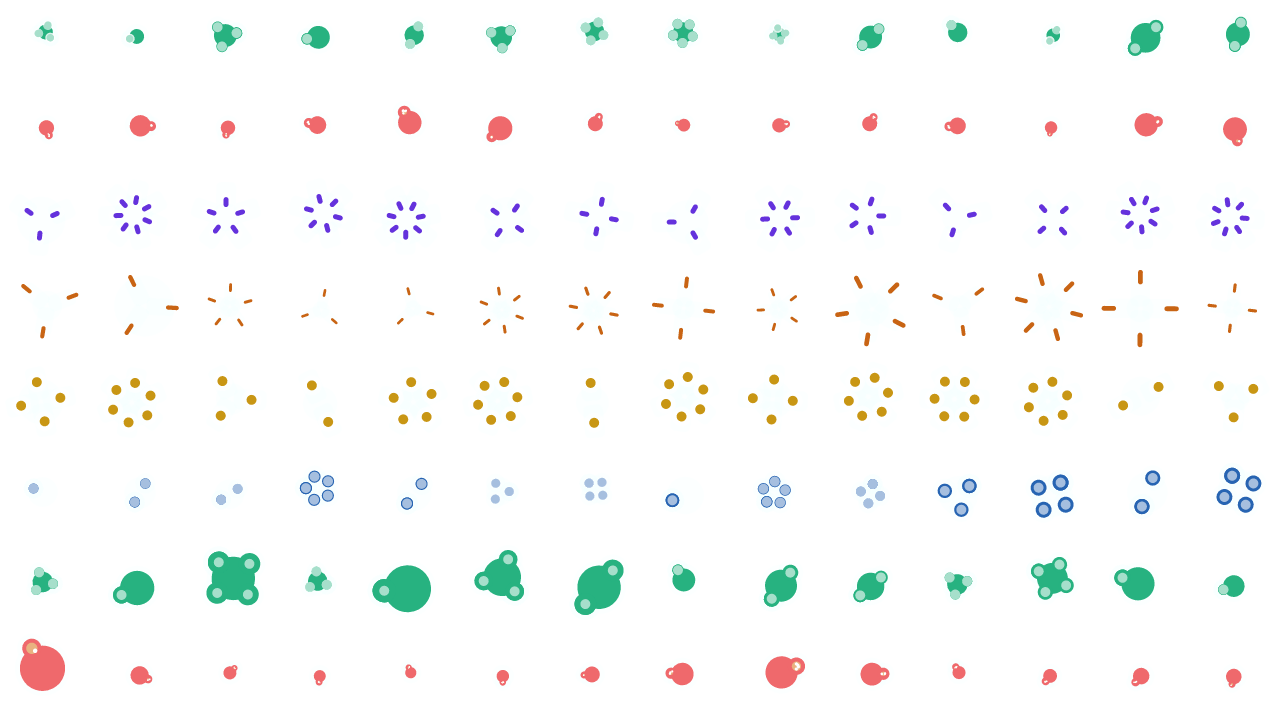
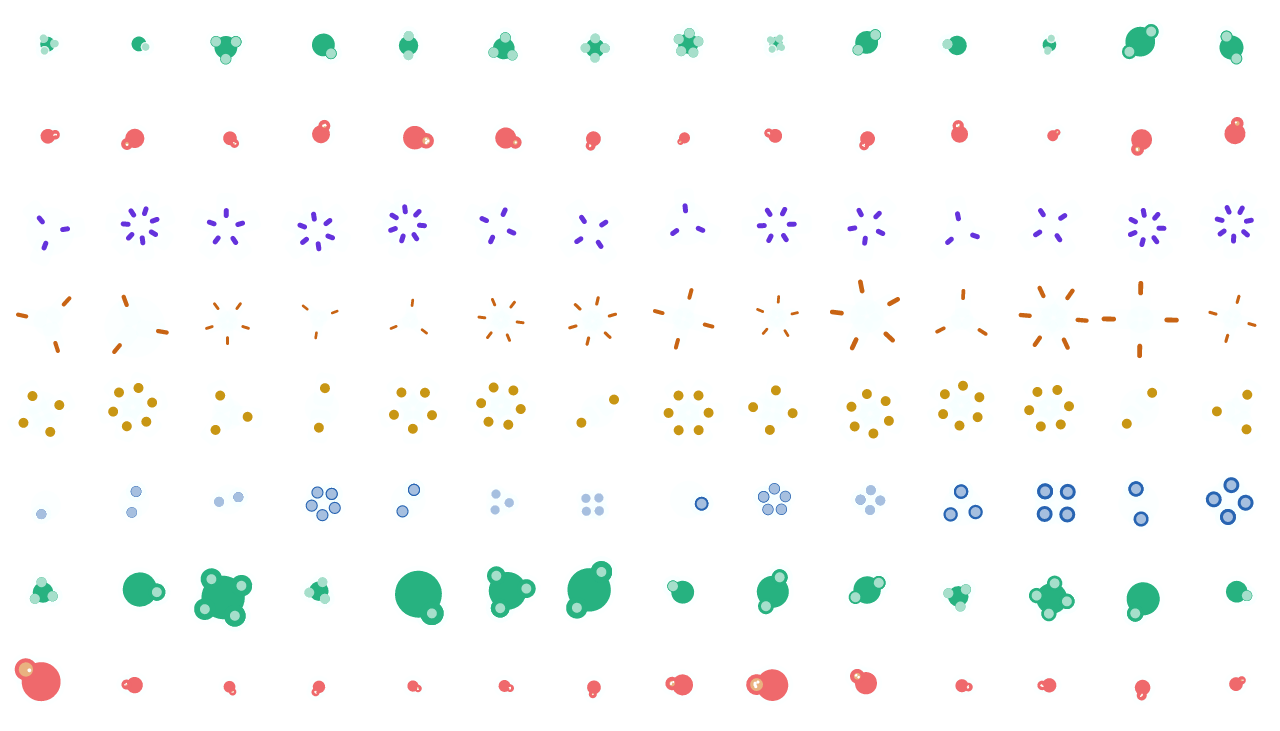
Many small agents

diff --git a/src/ucc/sys/pointSpriteUpdaterSys.js b/src/ucc/sys/pointSpriteUpdaterSys.js
@@ -16,9 +16,9 @@ var Time                = sys.Time;
 
 function pointSpriteUpdaterSys(state) {
   if (!state.pointSpriteMeshEntity) {
-    var image = Platform.isPlask ? '../assets/agents_2.png' : 'assets/agents_2.png';
+    var image = Platform.isPlask ? '../assets/agents_3.png' : 'assets/agents_3.png';
     var pointSpriteGeometry = new Geometry({ vertices: true, colors: true, normals: true, texCoords: true });
-    var pointSpriteMaterial = new PointSpriteTextured({ pointSize: 20 * state.DPI, texture: Texture2D.load(image), texSize: new Vec2(1/14, 1/8), texOffset: new Vec2(1/14, 1/8) });
+    var pointSpriteMaterial = new PointSpriteTextured({ pointSize: 25 * state.DPI, texture: Texture2D.load(image), texSize: new Vec2(1/14, 1/8), texOffset: new Vec2(1/14, 1/8) });
     state.pointSpriteMeshEntity = {
       mesh: new Mesh(pointSpriteGeometry, pointSpriteMaterial, { points: true } )
     }
@@ -46,7 +46,7 @@ function pointSpriteUpdaterSys(state) {
     if (!texCoords[entityIndex]) texCoords[entityIndex] = new Vec2(random.int(0, 14), random.int(0, 8));
 
     dir.copy(entity.prevPosition).sub(entity.position).normalize();
-    var agentRotation = Math.atan2(-dir.z, dir.x) + Time.seconds * 10;
+    var agentRotation = Math.atan2(-dir.z, dir.x) + Time.seconds * 1;
     normals[entityIndex].x = (normals[entityIndex].x * 5 + agentRotation) / 6;
   });
 

diff --git a/src/ucc/sys/agentSpawnSys.js b/src/ucc/sys/agentSpawnSys.js
@@ -12,7 +12,7 @@ function spawnStudents(state, agents) {
 
   var studentsToSpawn = R.difference(currentStudentsIds, aliveStudentsIds);
 
-  if (state.verbose)console.log('spawnStudents', 'aliveStudentsIds:', aliveStudentsIds.length, 'currentStudentsIds:', currentStudentsIds.length, 'studentsToSpawn:', studentsToSpawn.length);
+  //console.log('spawnStudents', 'aliveStudentsIds:', aliveStudentsIds.length, 'currentStudentsIds:', currentStudentsIds.length, 'studentsToSpawn:', studentsToSpawn.length);
 
   var stairsNodes = state.map.selectedNodes.filter(function(node) {
     return !node.neighbors.reduce(function(sameFloorSoFar, neighborNode) {
@@ -28,14 +28,14 @@ function spawnStudents(state, agents) {
 
   studentsToSpawn = studentsToSpawn.slice(0, 10);
 
-  if (studentsToSpawn.length == 0) {
+  //if (studentsToSpawn.length == 0) {
     if (aliveStudentAgents.length < state.numRandomStudents) {
       var position = random.element(stairsNodes).position;
       studentsToSpawn = R.range(0, 10).map(function() {
         return 'temp' + random.int(0, 999999999);
       })
     }
-  }
+  //}
 
   studentsToSpawn.forEach(function(studentId, studentIndex) {
     random.seed(Date.now() + studentIndex);

diff --git a/src/main.js b/src/main.js
@@ -73,7 +73,7 @@ var state = {
   DPI: Platform.isPlask ? 2 : 2,
   //scene
   camera: null,
-  cameraPosZ: 0.930,
+  cameraPosZ: 0.530,
   arcball: null,
 
   //entities
@@ -84,7 +84,7 @@ var state = {
 
   //map config
   minNodeDistance: 0.001,
-  maxAgentCount: Platform.isPlask ? 100 : 500,
+  maxAgentCount: Platform.isPlask ? 500 : 500,
 
   //state
   currentTime: 0,
@@ -96,7 +96,7 @@ var state = {
   clearBg: true,
   animateCells: false,
 
-  numRandomStudents: 150,
+  numRandomStudents: 250,
 
   //ui
   showGUI: false,
@@ -332,8 +332,8 @@ sys.Window.create({
       pointSpriteUpdaterSys(state);
 
       glu.enableDepthReadAndWrite(false);
-      //glu.enableAlphaBlending(true);
-      //glu.enableAlphaBlending();
+      glu.enableAlphaBlending(true);
+      //glu.enableAdditiveBlending();
       meshRendererSys(state);
     }
 

diff --git a/src/ucc/exp/agents.js b/src/ucc/exp/agents.js
@@ -471,7 +471,7 @@ PaedCell3.prototype.draw = function(crayon) {
 Window.create({
   settings: {
     width: 1280,
-    height: 720,
+    height: 731,
     type: '2d',
     highdpi: 1,
     fullscreen: Platform.isBrowser ? true : false,
